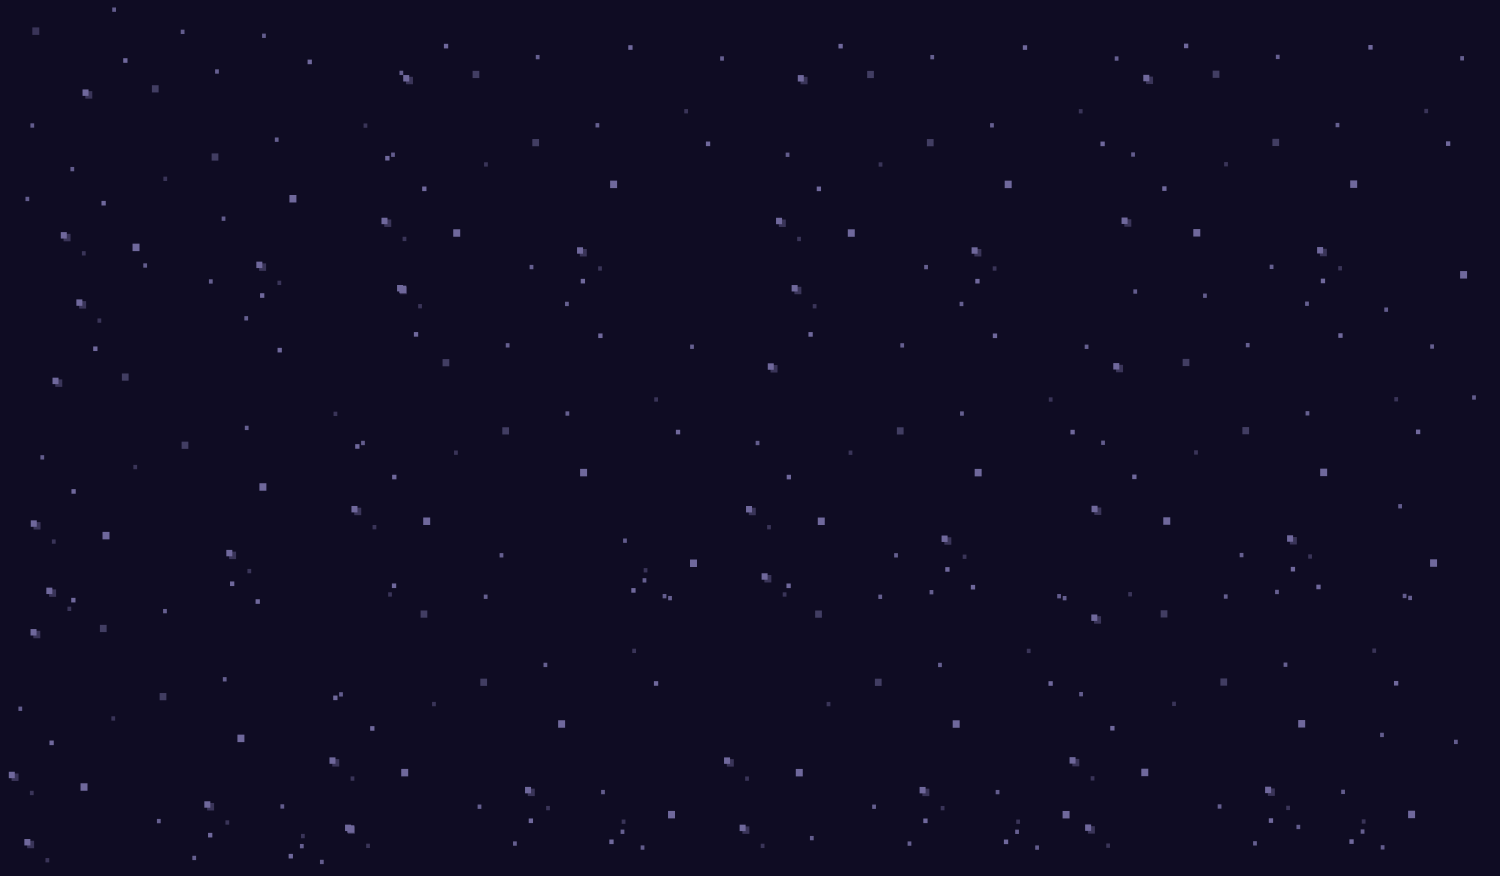
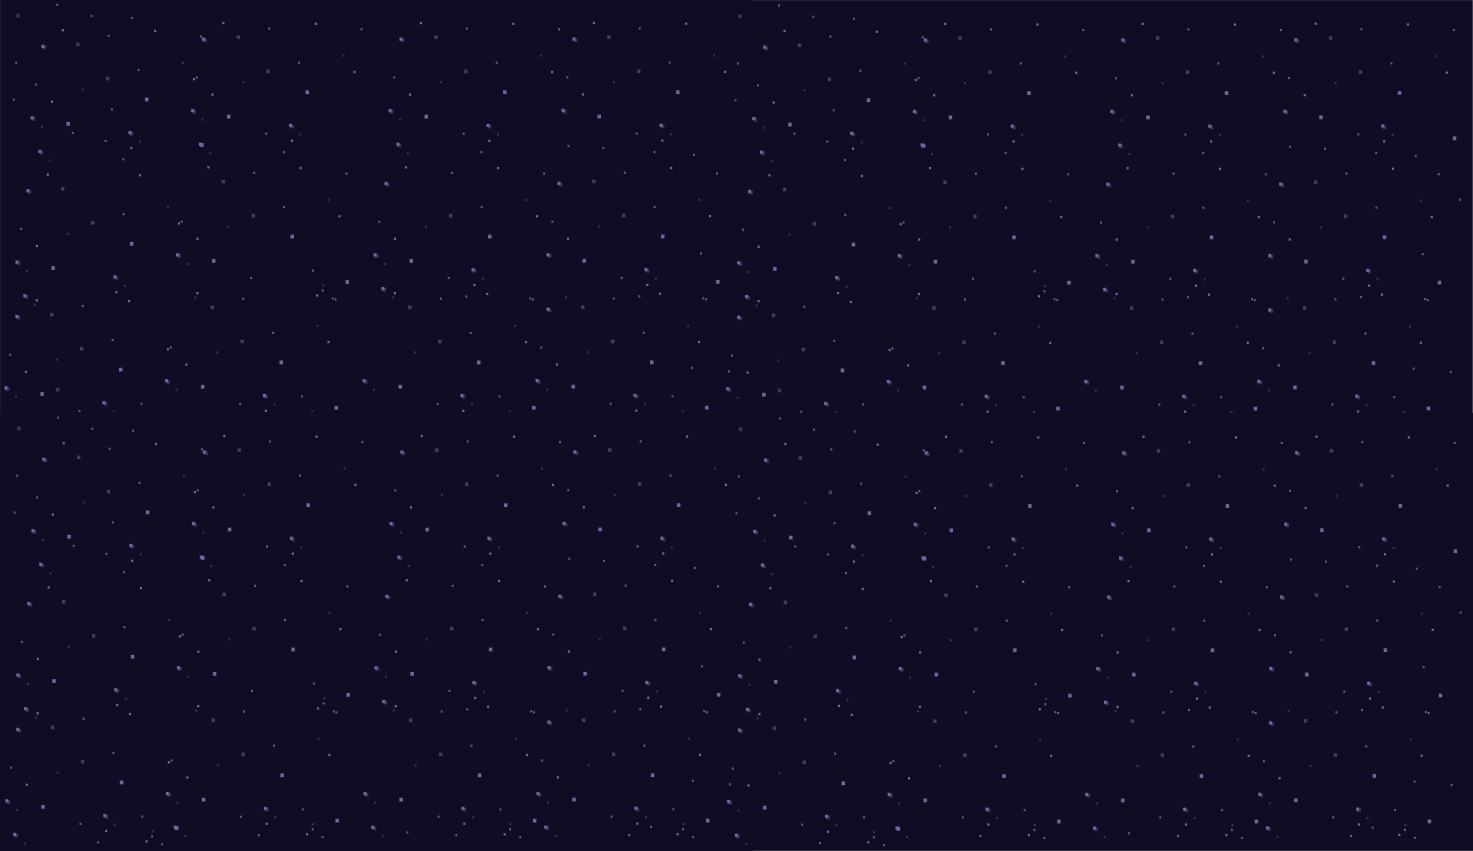
Wszystkie bazowe grafiki + asteroida.
(asteroidzie wyłączyć trzeba przyciąganie + dodać grafiki zniszczonych statków, w następnym pushu)

Changed region(s): [[0.9993, 0.0, 1.0, 0.4888], [0.4997, 0.6416, 0.5309, 0.6722], [0.0312, 0.6722, 0.0625, 0.7027]]

diff --git a/src/asteroid.cpp b/src/asteroid.cpp
@@ -1,0 +1,28 @@
+#include <cmath>
+#include "../include/hole.h"
+#include "../include/world.h"
+#include "../include/utility.h"
+#include "../include/boundingHitbox.h"
+#include "../include/asteroid.h"
+
+Asteroid::Asteroid(sf::Vector2f position, float mass, float radius)
+: GHole(position, mass, radius) {
+  texture.loadFromFile("assets/asteroid.png"); // Może rzucić failem, jeśli nie załaduje obrazka, wtedy ładuje biały trójkąt. 
+  hole.setTexture(&texture, true);
+  hole.setFillColor(sf::Color::Grey);
+}
+
+
+sf::Vector2f Asteroid::acceleration(sf::Vector2f where) {
+  return where;
+}
+
+void Asteroid::draw(sf::RenderWindow& window) {
+  window.draw(hole);
+  // hitbox->draw(window);
+}
+
+
+short Asteroid::direction() {
+  return 1;
+}

diff --git a/src/hole.cpp b/src/hole.cpp
@@ -47,7 +47,8 @@ void GHole::setWorld(World *world) {
 BlackHole::BlackHole(sf::Vector2f position, float mass, float radius)
 : GHole(position, mass, radius) {
   //kolor chwilowo aby było widoczne
-  //TODO Anita texturki
+  texture.loadFromFile("assets/blackhole2.png"); // Może rzucić failem, jeśli nie załaduje obrazka, wtedy ładuje biały trójkąt. 
+  hole.setTexture(&texture, true);
   hole.setFillColor(sf::Color::White);
 }
 

diff --git a/src/game.cpp b/src/game.cpp
@@ -4,6 +4,7 @@
 #include "../include/hole.h"
 #include "../include/spaceship.h"
 #include "../include/team.h"
+#include "../include/asteroid.h"
 
 #include <SFML/Graphics.hpp>
 #include <memory>
@@ -20,6 +21,7 @@ int main()
     world.newTeam(sf::Color::Blue);
     world.newShip({100,100}, 1);
     world.newShip({700,500}, 2);
+    world.addHoleEntity(new Asteroid({300,400}, 700, 30));
 
     world.run();
     return 0;

diff --git a/include/asteroid.h b/include/asteroid.h
@@ -1,0 +1,18 @@
+#ifndef ASTEROID_H
+#define ASTEROID_H
+
+#include "entity.h"
+
+class Asteroid : public GHole {
+public:
+  Asteroid(sf::Vector2f position, float mass, float radius);
+  sf::Vector2f acceleration(sf::Vector2f where);
+  void draw(sf::RenderWindow& window);
+protected:
+  typedef GHole super;
+  short direction();
+};
+
+
+
+#endif /* ASTEROID_H */

diff --git a/include/hole.h b/include/hole.h
@@ -18,6 +18,8 @@ protected:
   virtual short direction() = 0; //może static? TODO Michał ale nie ten sprint
   float mass;
   sf::CircleShape hole;
+  sf::Texture texture;
+
 };
 
 class BlackHole : public GHole {
@@ -27,5 +29,6 @@ protected:
   typedef GHole super;
   short direction();
 };
+
 
 #endif /* HOLE_H */
